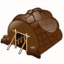
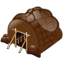
New update! Fixed view farms, mines and bases.

diff --git a/Main_view/Window.py b/Main_view/Window.py
@@ -106,11 +106,11 @@ class Window(Core): #Люди, користуйтеся цим кодом для
         texture = pygame.transform.scale(texture,(50,50))
         self.textures.append(texture)
         #Тимчасове обозначення баз
-        texture = manager.get_image("milk.png")
+        texture = manager.get_image("base_blue.png")
         texture = pygame.transform.scale(texture,(50,50))
         self.textures.append(texture)
         
-        texture = manager.get_image("cookie.png")
+        texture = manager.get_image("base_red.png")
         texture = pygame.transform.scale(texture,(50,50))
         self.textures.append(texture)
                         
@@ -239,13 +239,42 @@ class Window(Core): #Люди, користуйтеся цим кодом для
             if self.event.type == KEYDOWN:
                 if self.event.key == K_F5:
                     self.window_for_save()
-
-
+                    
     def Load_part_of_map(self):
         cells_list = self.load_cells(self.minimap_x, self.minimap_y)
         for i in range(self.big_steps):
             for j in range(self.big_steps):
                 cell_type = cells_list[i*self.big_steps+j][2]
+                if (cell_type >7) and (cell_type<12):
+                    mass_cell_type = []
+                    for k in range(9):
+                        type_cell = cells_list[i*self.big_steps+j-4+k][2]
+                        if (k !=4) and (type_cell !=3) and (type_cell <7):
+                            mass_cell_type.append(type_cell)
+                    types = [0,0,0,0,0,0]
+                    for k in range(0,len(mass_cell_type)):
+                        if mass_cell_type[k] == 0:
+                            types[0]+=1;
+                        elif mass_cell_type[k] == 1:
+                            types[1]+=1;
+                        elif mass_cell_type[k] == 2:
+                            types[2]+=1;
+                        elif mass_cell_type[k] == 4:
+                            types[3]+=1;
+                        elif mass_cell_type[k] == 5:
+                            types[4]+=1;
+                        elif mass_cell_type[k] == 6:
+                            types[5]+=1;
+                    max_cells = max(types)
+                    for k in range(0,len(types)):
+                        if (max_cells == types[k]):
+                            if k <3:
+                                result_type = k
+                            else:
+                                result_type = k+1
+                    first_texture = self.textures[result_type].get_rect()
+                    first_texture.center=(45+self.big_step*i,25+self.big_step*j)
+                    self.display.blit(self.textures[result_type],first_texture)                        
                 first_texture = self.textures[cell_type].get_rect()
                 first_texture.center=(45+self.big_step*i,25+self.big_step*j)
                 self.display.blit(self.textures[cell_type],first_texture)                

diff --git a/map_editor/Window.py b/map_editor/Window.py
@@ -285,6 +285,37 @@ class Window(Core): #Люди, користуйтеся цим кодом для
         for i in range(self.big_steps):
             for j in range(self.big_steps):
                 cell_type = cells_list[i*self.big_steps+j][2]
+                if (cell_type >7) and (cell_type<12):
+                    mass_cell_type = []
+                    for k in range(9):
+                        type_cell = cells_list[i*self.big_steps+j-4+k][2]
+                        if (k !=4) and (type_cell !=3) and (type_cell <7):
+                            mass_cell_type.append(type_cell)
+                    types = [0,0,0,0,0,0]
+                    for k in range(0,len(mass_cell_type)):
+                        if mass_cell_type[k] == 0:
+                            types[0]+=1;
+                        elif mass_cell_type[k] == 1:
+                            types[1]+=1;
+                        elif mass_cell_type[k] == 2:
+                            types[2]+=1;
+                        elif mass_cell_type[k] == 4:
+                            types[3]+=1;
+                        elif mass_cell_type[k] == 5:
+                            types[4]+=1;
+                        elif mass_cell_type[k] == 6:
+                            types[5]+=1;
+                    max_cells = max(types)
+                    for k in range(0,len(types)):
+                        if (max_cells == types[k]):
+                            if k <3:
+                                result_type = k
+                            else:
+                                result_type = k+1
+                    first_texture = self.textures[result_type].get_rect()
+                    first_texture.center=(45+self.big_step*i,25+self.big_step*j)
+                    self.display.blit(self.textures[result_type],first_texture)  
+
                 first_texture = self.textures[cell_type].get_rect()
                 first_texture.center=(35+self.big_step*i,14+self.big_step*j)
                 self.display.blit(self.textures[cell_type],first_texture)                

diff --git a/Main_view/ResManager.py b/Main_view/ResManager.py
@@ -16,7 +16,7 @@ class ResManager:
     def get_image(self,name):
         fullname = os.path.join(self.data_dir, os.path.join(self.image_dir,name))
         try:
-            image = pygame.image.load(fullname).convert()
+            image = pygame.image.load(fullname)
         except pygame.error, message:
             print('Cannot load image; {0}'.format(name))
             raise SystemExit, message

diff --git a/map_editor/ResManager.py b/map_editor/ResManager.py
@@ -16,7 +16,7 @@ class ResManager:
     def get_image(self,name):
         fullname = os.path.join(self.data_dir, os.path.join(self.image_dir,name))
         try:
-            image = pygame.image.load(fullname).convert()
+            image = pygame.image.load(fullname)
         except pygame.error, message:
             print('Cannot load image; {0}'.format(name))
             raise SystemExit, message
